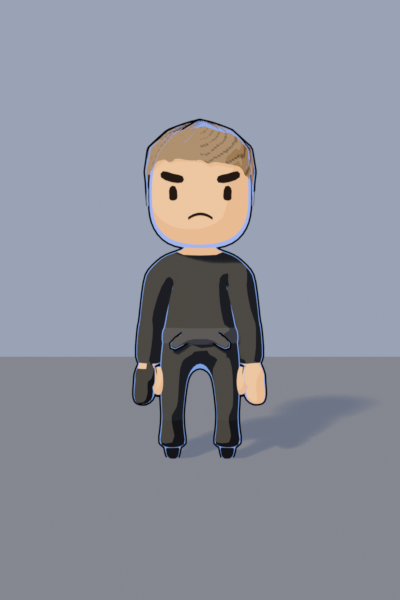
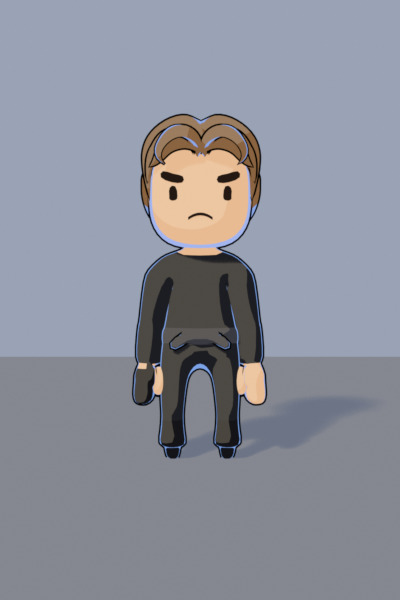
Luke: back to the first (pack) hair, brown, fringe lifted a little (owner)

Changed region(s): [[0.33, 0.18, 0.66, 0.36]]

diff --git a/kit/starwars.py b/kit/starwars.py
@@ -497,7 +497,7 @@ def build_luke(col: bpy.types.Collection | None = None) -> Q.QChar:
     Q.assign(qc, skin, materials=["Skin"])
     Q.assign(qc, tunic, materials=["Clothes"])
     Q.assign(qc, L.toon2("luke_belt", "#3a3b42"), materials=["Band"], z_range=(-1.0, 2.0))
-    hair = L.toon2("luke_hair", "#a07c55")                    # light brown (owner refs)
+    hair = L.toon2("luke_hair", "#8a6440")                    # brown (owner 2026-09-26)
     band = L.toon2("luke_band", cast.SKIN["ken"])              # the pack's headband in skin colour (the hair covers it)
     Q.assign(qc, band, materials=["Band"], z_range=(2.0, 9.0))
     # the pack's headband tails stand straight up (they read as horns): remove them (as cast._fighter does)
@@ -513,7 +513,14 @@ def build_luke(col: bpy.types.Collection | None = None) -> Q.QChar:
     boots = L.toon2("luke_boots", "#141418")
     Q.assign(qc, boots, bones=["Foot.L", "Foot.R"])
     Q.assign(qc, boots, bones=["LowerLeg.L", "LowerLeg.R"], z_range=(-1.0, 0.45))
-    part = luke_hair(qc, hair, tc)
+    # owner 2026-09-26: back to the first hair (the pack's Casual_Male hair, like Ken's), brown, fringe lifted a little
+    # off the brows (luke_hair() = the sculpted alternative, kept but unused)
+    part = Q.take_part(qc, "Casual_Male.blend", "Hair", "hair", hair)
+    for v in part.data.vertices:
+        if v.co.y < 0.0:
+            t_ = max(0.0, min(1.0, (3.0 - v.co.z) / 0.8))
+            v.co.z += 0.16 * t_
+    part.data.update()
     Q.smooth(qc)
     Q.outline(qc.body, 0.010)
     Q.outline(part, 0.010)
